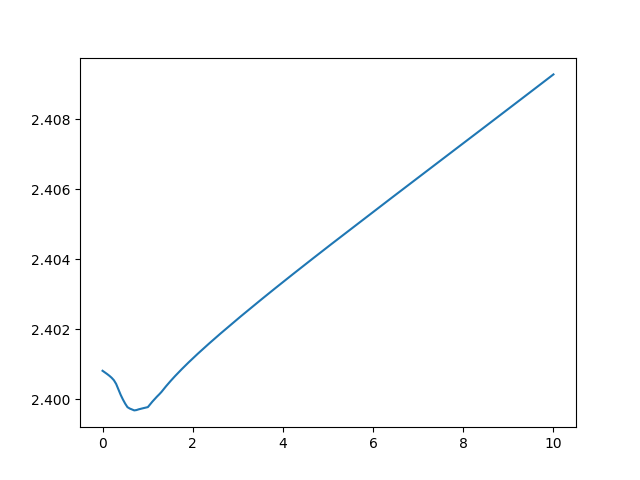
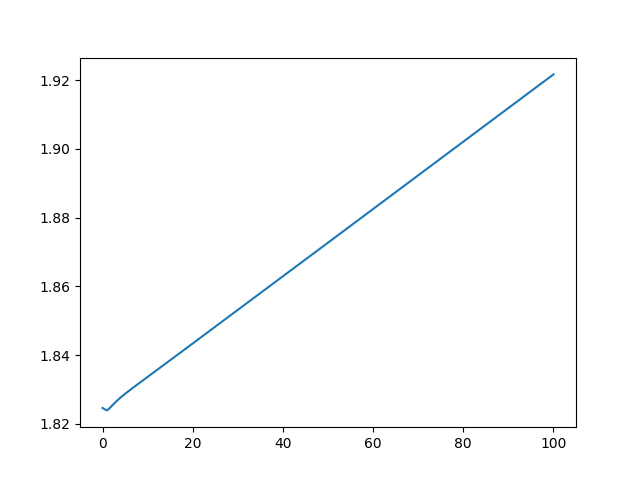
z = 0 to 100 in 200 points

diff --git a/noise.py b/noise.py
@@ -29,7 +29,7 @@ def evaluate():
 def evaluate_noise():
     model.eval()
 
-    errors = np.linspace(0,10,200)
+    errors = np.linspace(0,100,200)
     abs_err = []
 
     for z in errors:
